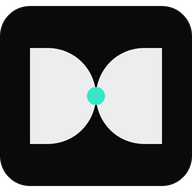
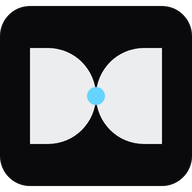
Switch accent from teal to signal blue and restyle the About page
- Primary accent: #0369a1 light (5.93:1 on surface) and #67d4ff dark
  (11.7:1 on bg); light neutrals and shadows cooled to match
- Favicon node, exported icons, theme-color, manifest, and default OG
  image recolored to the new palette
- About page uses the site's card patterns: approach cards, background
  cards, training cards with status chips, and a hiring-manager panel

Claude-Session: https://claude.ai/code/session_016ArgKpQWhNdqRCLufRcdsZ

Changed region(s): [[0.4375, 0.4375, 0.5625, 0.5625]]

diff --git a/about/index.html b/about/index.html
@@ -5,7 +5,7 @@
 <meta name="viewport" content="width=device-width, initial-scale=1.0" />
 <title>About — Dylan Dwight Creative Technologies</title>
 <meta name="description" content="Dylan Dwight is a Brooklyn-based web designer and front-end developer combining visual design, UX thinking, and hand-coded front-end development for independent businesses and creative work." />
-<meta name="theme-color" content="#f3f2ef" media="(prefers-color-scheme: light)" />
+<meta name="theme-color" content="#f1f3f6" media="(prefers-color-scheme: light)" />
 <meta name="theme-color" content="#0a0a0c" media="(prefers-color-scheme: dark)" />
 
 <link rel="canonical" href="https://dylandwight.com/about/" />
@@ -174,6 +174,11 @@
           <span class="eyebrow">About · Brooklyn, NY · Remote</span>
           <h1 id="page-heading">Design, UX, and front-end development in one pair of hands.</h1>
           <p class="lede">I'm Dylan Dwight. I run Dylan Dwight Creative Technologies, a small practice building clear, responsive digital experiences for independent businesses and creative work.</p>
+          <div class="hero-chips">
+            <span class="label-chip label-chip--accent">Open to junior roles</span>
+            <span class="label-chip">Freelance projects</span>
+            <span class="label-chip">Brooklyn, NY · Remote</span>
+          </div>
         </div>
         <div class="corner-panel about-portrait">
           <picture>
@@ -185,68 +190,64 @@
     </div>
   </section>
 
-  <section class="section section--tight" aria-labelledby="what-heading">
+  <section class="section" aria-labelledby="approach-heading">
     <div class="wrap">
-      <div class="about-copy about-section" data-reveal>
+      <div class="section-intro">
         <div class="section-heading">
           <span class="section-index">01</span>
-          <h2 id="what-heading">What I do</h2>
+          <h2 id="approach-heading">Approach</h2>
         </div>
-        <p>I combine visual design, UX thinking, and front-end development. On a typical project that means structuring the content, designing the interface, writing the HTML, CSS, and JavaScript, and handling the details that decide whether a site actually works: information clarity, mobile usability, accessibility, performance, and real-world business utility.</p>
+        <p class="lede">I combine visual design, UX thinking, and front-end development.</p>
+      </div>
+      <div class="service-grid" data-reveal>
+        <div class="card service-item"><span class="service-index">WHAT I DO</span><h3>Content, interface, and code</h3><p>On a typical project that means structuring the content, designing the interface, and writing the HTML, CSS, and JavaScript.</p></div>
+        <div class="card service-item"><span class="service-index">HOW I WORK</span><h3>Visitor first, built by hand</h3><p>I start with what a visitor needs to do, not with a template. I build by hand so I understand every part of what ships, test on real devices, and keep the result maintainable for the person who owns it.</p></div>
+        <div class="card service-item"><span class="service-index">WHAT I CHECK</span><h3>The details that decide if a site works</h3><p>Information clarity, mobile usability, accessibility, performance, and real-world business utility. I'd rather tell you a feature isn't worth the budget than build it badly.</p></div>
       </div>
     </div>
   </section>
 
-  <section class="section section--tight" aria-labelledby="how-heading">
+  <section class="section" aria-labelledby="background-heading">
     <div class="wrap">
-      <div class="about-copy about-section" data-reveal>
+      <div class="section-intro">
         <div class="section-heading">
           <span class="section-index">02</span>
-          <h2 id="how-heading">How I work</h2>
-        </div>
-        <p>I start with what a visitor needs to do, not with a template. I build by hand so I understand every part of what ships, test on real devices, and keep the result maintainable for the person who owns it. I'd rather tell you a feature isn't worth the budget than build it badly.</p>
-      </div>
-    </div>
-  </section>
-
-  <section class="section section--tight" aria-labelledby="background-heading">
-    <div class="wrap">
-      <div class="about-copy about-section" data-reveal>
-        <div class="section-heading">
-          <span class="section-index">03</span>
           <h2 id="background-heading">Background that informs the work</h2>
         </div>
-        <p>I've worked in restaurant operations, which is why my hospitality projects begin with menus, hours, reservations, directions, and ordering: the things guests actually look for. I also produce electronic music, which keeps me close to the artists, venues, and culture I like designing for. Both shape how I think about clarity, pacing, and getting out of the way.</p>
+        <p class="lede">Both shape how I think about clarity, pacing, and getting out of the way.</p>
       </div>
+      <ul class="audience-list" data-reveal>
+        <li class="card"><strong>Restaurant operations</strong>I've worked in restaurant operations, which is why my hospitality projects begin with menus, hours, reservations, directions, and ordering: the things guests actually look for.</li>
+        <li class="card"><strong>Electronic music production</strong>I also produce electronic music, which keeps me close to the artists, venues, and culture I like designing for.</li>
+      </ul>
     </div>
   </section>
 
-  <section class="section section--tight" aria-labelledby="training-heading">
+  <section class="section" aria-labelledby="training-heading">
     <div class="wrap">
-      <div class="about-copy about-section" data-reveal>
+      <div class="section-intro">
         <div class="section-heading">
-          <span class="section-index">04</span>
+          <span class="section-index">03</span>
           <h2 id="training-heading">Training</h2>
         </div>
-        <ul class="about-list">
-          <li>Cornell eCornell Web Design and Development Certificate</li>
-          <li>Google UX Design Certificate, in progress</li>
-          <li>IBM JavaScript Programming with React, Node &amp; MongoDB Specialization, in progress</li>
-          <li>Portland Community College web design and development coursework</li>
-        </ul>
       </div>
+      <ul class="audience-list training-list" data-reveal>
+        <li class="card"><span class="label-chip">Completed</span><strong>Cornell eCornell</strong>Web Design and Development Certificate</li>
+        <li class="card"><span class="label-chip">4.0 GPA · Honor Society</span><strong>Portland Community College</strong>Web design and development coursework</li>
+        <li class="card"><span class="label-chip label-chip--accent">In progress</span><strong>Google UX Design Certificate</strong>UX research, wireframing, and prototyping in Figma</li>
+        <li class="card"><span class="label-chip label-chip--accent">In progress</span><strong>IBM JavaScript Programming</strong>React, Node &amp; MongoDB Specialization on Coursera</li>
+      </ul>
     </div>
   </section>
 
   <section class="section section--tight" aria-labelledby="hiring-heading">
     <div class="wrap">
-      <div class="about-copy about-section" data-reveal>
-        <div class="section-heading">
-          <span class="section-index">05</span>
-          <h2 id="hiring-heading">For hiring managers</h2>
-        </div>
-        <p>I'm available for junior front-end / UX/UI opportunities alongside select freelance projects. Work is on the <a href="/work/">Work page</a>; the Sand Dollar case study is the most complete picture of how I approach a project end to end.</p>
+      <div class="corner-panel hiring-panel" data-reveal>
+        <span class="eyebrow eyebrow--accent">04 · For hiring managers</span>
+        <h2 id="hiring-heading">Open to junior front-end and UX/UI roles</h2>
+        <p class="lede">I'm available for junior front-end / UX/UI opportunities alongside select freelance projects. The Sand Dollar case study is the most complete picture of how I approach a project end to end.</p>
         <div class="about-links">
+          <a href="/work/" class="btn btn-primary">See my work <svg viewBox="0 0 24 24" fill="none" stroke="currentColor" stroke-width="2" stroke-linecap="round" stroke-linejoin="round" aria-hidden="true"><path d="M5 12h14M13 6l6 6-6 6"/></svg></a>
           <a href="/resume/dylan-dwight-foottit-resume.pdf" class="text-link" target="_blank" rel="noopener">Résumé <span class="work-card-meta">PDF</span> <svg viewBox="0 0 24 24" fill="none" stroke="currentColor" stroke-width="2" stroke-linecap="round" stroke-linejoin="round" aria-hidden="true"><path d="M7 17 17 7M8 7h9v9"/></svg><span class="sr-only"> (opens in a new tab)</span></a>
           <a href="https://github.com/DylanDwight" class="text-link" target="_blank" rel="noopener noreferrer">GitHub <svg viewBox="0 0 24 24" fill="none" stroke="currentColor" stroke-width="2" stroke-linecap="round" stroke-linejoin="round" aria-hidden="true"><path d="M7 17 17 7M8 7h9v9"/></svg><span class="sr-only"> (opens in a new tab)</span></a>
           <a href="https://www.linkedin.com/in/dylan-dwight/" class="text-link" target="_blank" rel="noopener noreferrer">LinkedIn <svg viewBox="0 0 24 24" fill="none" stroke="currentColor" stroke-width="2" stroke-linecap="round" stroke-linejoin="round" aria-hidden="true"><path d="M7 17 17 7M8 7h9v9"/></svg><span class="sr-only"> (opens in a new tab)</span></a>
@@ -261,7 +262,7 @@
     <div class="wrap">
       <div class="cta-panel" data-reveal>
         <div class="grid-texture" aria-hidden="true"></div>
-        <span class="eyebrow eyebrow--accent">06 · Contact</span>
+        <span class="eyebrow eyebrow--accent">05 · Contact</span>
         <h2 id="cta-heading">Start a project</h2>
         <p class="lede">Tell me what you're working on, what's not working today, and roughly when you'd like it done. I aim to reply within two business days.</p>
         <div class="cta-actions">

diff --git a/css/tokens.css b/css/tokens.css
@@ -1,6 +1,6 @@
 /* ============================================================
    DYLAN DWIGHT CREATIVE TECHNOLOGIES — Design tokens
-   Direction: "Signal & Paper" — warm paper surfaces, one precise
+   Direction: "Signal & Paper" — cool paper surfaces, one precise
    accent, instrument-panel labels. Evolution of the 2026 site.
 
    Theme handling:
@@ -15,18 +15,18 @@
   color-scheme: light;
 
   /* Surfaces — paper / concrete */
-  --color-bg: #f3f2ef;
+  --color-bg: #f1f3f6;
   --color-surface: #ffffff;
-  --color-surface-2: #fbfbfa;
-  --color-surface-offset: #eae9e5;
-  --color-surface-offset-2: #dedcd7;
-  --color-surface-dynamic: #d2d0cb;
-  --color-divider: #dcdad5;
-  --color-border: #cecdc7;
+  --color-surface-2: #fafbfc;
+  --color-surface-offset: #e6e9ee;
+  --color-surface-offset-2: #d9dde4;
+  --color-surface-dynamic: #cdd2da;
+  --color-divider: #d8dce2;
+  --color-border: #c9ced6;
 
   /* Text
      --color-text-subtle is the darkest "quiet" text that still
-     passes WCAG AA (5.03:1 on --color-bg). Use it for eyebrows,
+     passes WCAG AA (5.07:1 on --color-bg, 4.63:1 on offset). Use it for eyebrows,
      labels, indexes, tags, captions, and footer text.
      --color-text-faint is decorative only (rules, borders,
      hairlines). Never use it for words. */
@@ -34,13 +34,13 @@
   --color-text-muted: #55565d;
   --color-text-subtle: #66676d;
   --color-text-faint: #8d8e93;
-  --color-text-inverse: #f3f2ef;
+  --color-text-inverse: #f1f3f6;
 
-  /* Primary accent — signal teal */
-  --color-primary: #067a6a;
-  --color-primary-hover: #056156;
-  --color-primary-active: #044a42;
-  --color-primary-highlight: #d6ede8;
+  /* Primary accent — signal blue (5.93:1 on surface, 5.34:1 on bg) */
+  --color-primary: #0369a1;
+  --color-primary-hover: #075985;
+  --color-primary-active: #0c4a6e;
+  --color-primary-highlight: #dbeefe;
 
   /* Secondary accent — hazard amber (structural divider only) */
   --color-warning: #a85a08;
@@ -65,9 +65,9 @@
   --transition-interactive: 180ms cubic-bezier(0.16, 1, 0.3, 1);
   --ease-out: cubic-bezier(0.16, 1, 0.3, 1);
 
-  --shadow-sm: 0 1px 2px oklch(0.2 0.01 80 / 0.08);
-  --shadow-md: 0 6px 20px oklch(0.2 0.01 80 / 0.1);
-  --shadow-lg: 0 20px 48px oklch(0.2 0.01 80 / 0.14);
+  --shadow-sm: 0 1px 2px oklch(0.2 0.02 250 / 0.08);
+  --shadow-md: 0 6px 20px oklch(0.2 0.02 250 / 0.1);
+  --shadow-lg: 0 20px 48px oklch(0.2 0.02 250 / 0.14);
   --shadow-glow: 0 0 0 1px oklch(from var(--color-primary) l c h / 0.3);
 
   --content-narrow: 640px;
@@ -126,10 +126,10 @@
   --color-text-faint: #5a5b62;
   --color-text-inverse: #0a0a0c;
 
-  --color-primary: #35e6c8;
-  --color-primary-hover: #63efd4;
-  --color-primary-active: #1fb99f;
-  --color-primary-highlight: #113330;
+  --color-primary: #67d4ff; /* 11.7:1 on bg */
+  --color-primary-hover: #94e2ff;
+  --color-primary-active: #38bdf8;
+  --color-primary-highlight: #0c2a3a;
 
   --color-warning: #ff9d3d;
   --color-warning-hover: #ffb567;

diff --git a/css/pages.css b/css/pages.css
@@ -115,18 +115,23 @@
   color: var(--color-text);
   font-weight: 600;
 }
-.about-section {
-  max-width: 68ch;
-}
-.about-section .section-heading {
-  margin-bottom: var(--space-4);
-}
-.about-list {
-  display: grid;
+.hero-chips {
+  display: flex;
+  flex-wrap: wrap;
   gap: var(--space-2);
-  padding-left: 1.2em;
-  list-style: disc;
-  color: var(--color-text-muted);
+  margin-top: var(--space-6);
+}
+.training-list li .label-chip {
+  margin-bottom: var(--space-3);
+}
+.hiring-panel {
+  padding: clamp(var(--space-8), 5vw, var(--space-12));
+  display: flex;
+  flex-direction: column;
+  gap: var(--space-4);
+}
+.hiring-panel .lede {
+  max-width: var(--measure-default);
 }
 .about-portrait {
   padding: var(--space-3);

diff --git a/index.html b/index.html
@@ -5,7 +5,7 @@
 <meta name="viewport" content="width=device-width, initial-scale=1.0" />
 <title>Dylan Dwight Creative Technologies — Web Design & Front-End Development · Brooklyn, NY</title>
 <meta name="description" content="Web design and front-end development for restaurants, artists, musicians, and small businesses. Clear, fast, responsive websites, scoped and quoted per project. Brooklyn, NY and remote." />
-<meta name="theme-color" content="#f3f2ef" media="(prefers-color-scheme: light)" />
+<meta name="theme-color" content="#f1f3f6" media="(prefers-color-scheme: light)" />
 <meta name="theme-color" content="#0a0a0c" media="(prefers-color-scheme: dark)" />
 
 <link rel="canonical" href="https://dylandwight.com/" />

diff --git a/contact/index.html b/contact/index.html
@@ -5,7 +5,7 @@
 <meta name="viewport" content="width=device-width, initial-scale=1.0" />
 <title>Start a project — Dylan Dwight Creative Technologies</title>
 <meta name="description" content="Send a project inquiry for a landing page, small-business website, redesign, front-end build, brand direction, SEO and accessibility work, or ongoing support. I aim to reply within two business days." />
-<meta name="theme-color" content="#f3f2ef" media="(prefers-color-scheme: light)" />
+<meta name="theme-color" content="#f1f3f6" media="(prefers-color-scheme: light)" />
 <meta name="theme-color" content="#0a0a0c" media="(prefers-color-scheme: dark)" />
 
 <link rel="canonical" href="https://dylandwight.com/contact/" />

diff --git a/services/index.html b/services/index.html
@@ -5,7 +5,7 @@
 <meta name="viewport" content="width=device-width, initial-scale=1.0" />
 <title>Services — Dylan Dwight Creative Technologies</title>
 <meta name="description" content="Landing pages, small-business websites, redesigns, responsive front-end builds, brand direction, SEO and accessibility foundations, and ongoing support. Every project is scoped and quoted individually." />
-<meta name="theme-color" content="#f3f2ef" media="(prefers-color-scheme: light)" />
+<meta name="theme-color" content="#f1f3f6" media="(prefers-color-scheme: light)" />
 <meta name="theme-color" content="#0a0a0c" media="(prefers-color-scheme: dark)" />
 
 <link rel="canonical" href="https://dylandwight.com/services/" />

diff --git a/work/index.html b/work/index.html
@@ -5,7 +5,7 @@
 <meta name="viewport" content="width=device-width, initial-scale=1.0" />
 <title>Work — Dylan Dwight Creative Technologies</title>
 <meta name="description" content="Finished work by Dylan Dwight: the Sand Dollar Restaurant &amp; Lounge website redesign case study, plus client and independent web projects." />
-<meta name="theme-color" content="#f3f2ef" media="(prefers-color-scheme: light)" />
+<meta name="theme-color" content="#f1f3f6" media="(prefers-color-scheme: light)" />
 <meta name="theme-color" content="#0a0a0c" media="(prefers-color-scheme: dark)" />
 
 <link rel="canonical" href="https://dylandwight.com/work/" />

diff --git a/404.html b/404.html
@@ -5,7 +5,7 @@
 <meta name="viewport" content="width=device-width, initial-scale=1.0" />
 <title>Page not found — Dylan Dwight Creative Technologies</title>
 <meta name="description" content="That page doesn't exist. Head back to the homepage, browse services, or start a project." />
-<meta name="theme-color" content="#f3f2ef" media="(prefers-color-scheme: light)" />
+<meta name="theme-color" content="#f1f3f6" media="(prefers-color-scheme: light)" />
 <meta name="theme-color" content="#0a0a0c" media="(prefers-color-scheme: dark)" />
 
 <meta name="robots" content="noindex" />
